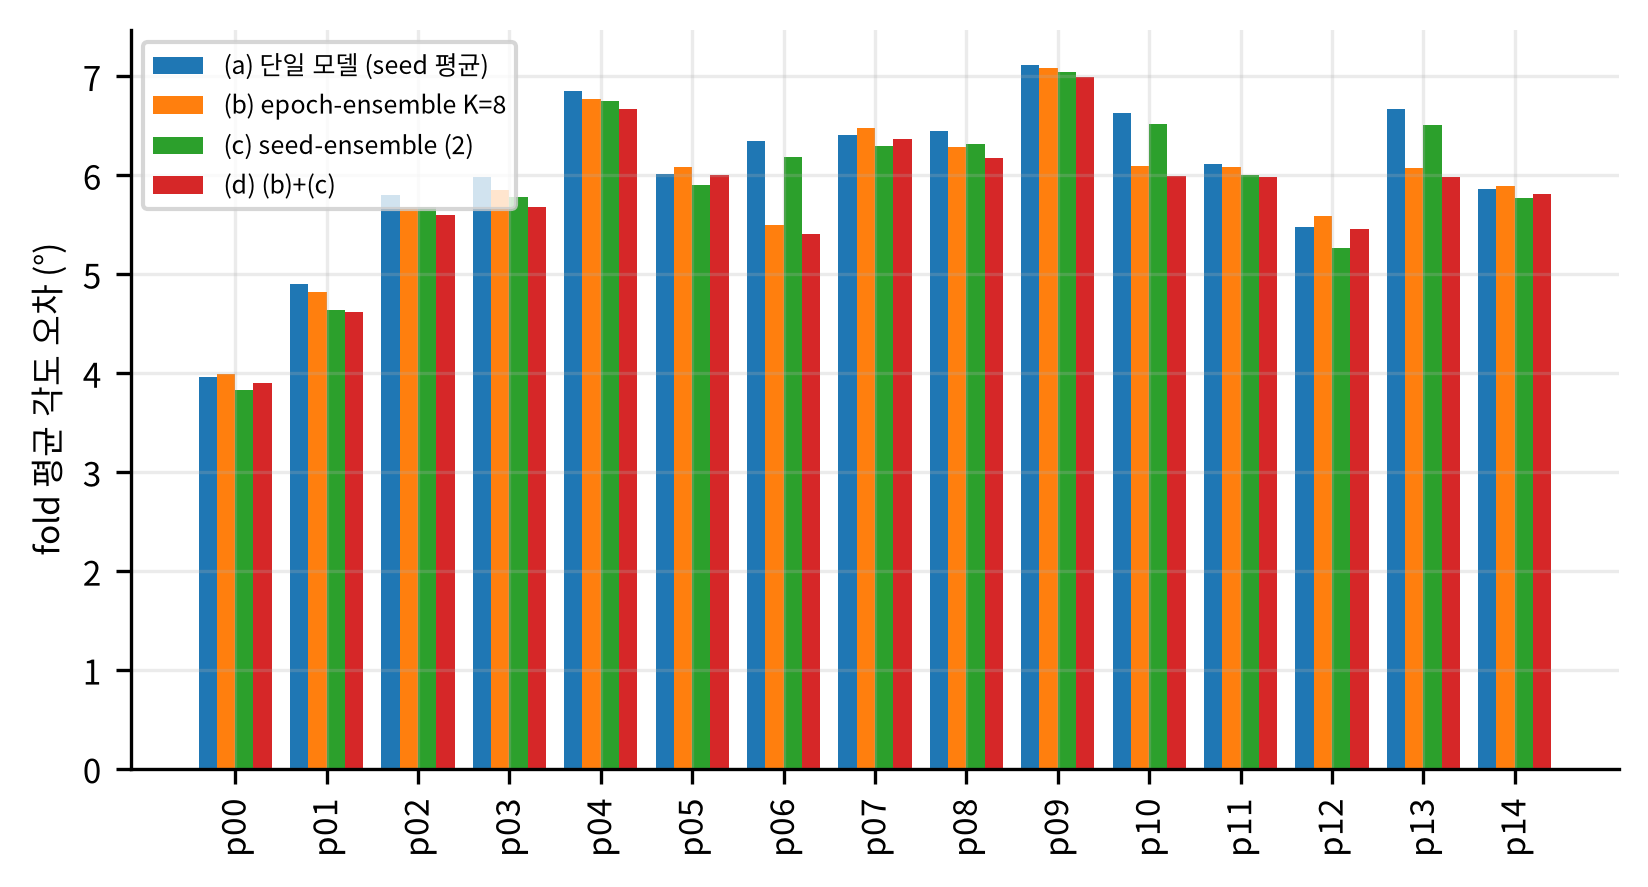
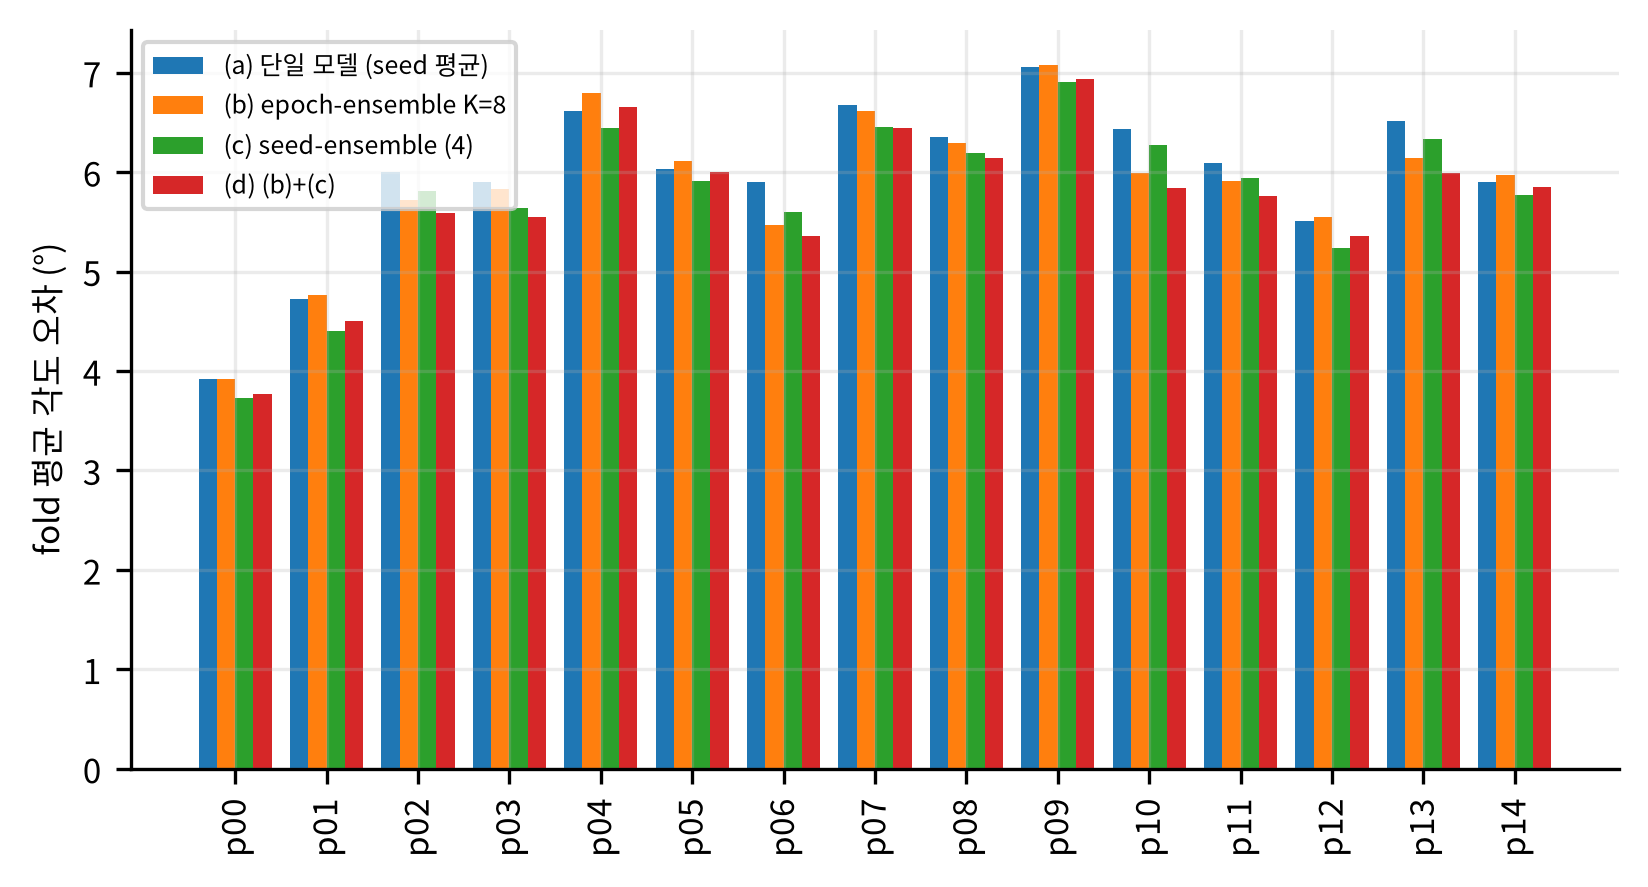
Aggregate four seeds; skip runs that are still going
집계 스크립트가 아직 돌고 있는 실행 디렉터리(lopo.json 없음·folds 미완)를 집어
ensemble 행이 빠지던 것을 고쳤다. 완주한 실행만 쓴다.

현재 결과 (전부 정당한 수단)

| 방법 | LOPO 평균 |
|---|---|
| 평균 gaze 예측 (하한선) | 9.214° |
| ridge 회귀 (저장소 baseline) | 7.271° |
| 이전 실행 A / B | 6.056° / 6.121° |
| 최종 모델 단일 (seed 4개 평균) | 5.975° |
| 최종 모델 seed-ensemble (4) | 5.776° |
| epoch-ens K=8 + seed-ens | 5.717° |

E2: (b) epoch-ens K=8 -0.096 ± 0.051 (p=0.079, 구분 불가)
    (c) seed-ens -0.199 ± 0.016 (p<0.0001, 유의)
    (d) 둘 다 -0.258 ± 0.050 (p=0.0002, 유의)
K는 개발용 fold p00의 검증 오차로만 골랐다(PREREG 6절).

최종 모델 vs ridge: Δ -1.296° ± 0.197, p=1.2e-05
최종 모델 vs 하한선: Δ -3.239° ± 0.236, p=1.6e-09

Claude-Session: https://claude.ai/code/session_01RZg9XsEgZRphrDav2mZiVs

diff --git a/analysis/e2_ensemble.py b/analysis/e2_ensemble.py
@@ -67,9 +67,12 @@ def fold_err(pred: dict, gaze: dict) -> np.ndarray:
     return np.array([angular_error(pred[p], gaze[p]).mean() for p in PERSONS])
 
 
-def run(pattern="results/p1_seed*"):
+def run(pattern=("results/p1_seed*", "results/p4_seed*")):
     section("E2 — ensemble")
-    run_dirs = sorted(d for d in glob.glob(pattern) if os.path.exists(f"{d}/lopo.json"))
+    pats = (pattern,) if isinstance(pattern, str) else pattern
+    run_dirs = sorted(d for pat in pats for d in glob.glob(pat)
+                      if os.path.exists(f"{d}/lopo.json")
+                      and len(glob.glob(f"{d}/folds/*.npz")) >= len(PERSONS))
     print(f"실행 {len(run_dirs)}개: {[os.path.basename(d) for d in run_dirs]}")
     if not run_dirs:
         print("  P1 결과가 아직 없다.")

diff --git a/analysis/final_table.py b/analysis/final_table.py
@@ -37,12 +37,12 @@ def run():
             rows.append([label] + [round(float(x), 3) for x in v]
                         + [round(float(v.mean()), 3)])
 
-    seeds = sorted(glob.glob("results/p1_seed*"))
-    seed_errs = []
-    for sd in seeds:
+    # 아직 돌고 있는 실행은 lopo.json이 없다. 완주한 것만 쓴다.
+    seeds, seed_errs = [], []
+    for sd in sorted(glob.glob("results/p1_seed*")) + sorted(glob.glob("results/p4_seed*")):
         v = json_folds(os.path.join(sd, "lopo.json"))
         if v is not None:
-            seed_errs.append(v)
+            seeds.append(sd); seed_errs.append(v)
     if seed_errs:
         A = np.array(seed_errs)
         mean_single = A.mean(0)

diff --git a/analysis/a18_ablation_null.py b/analysis/a18_ablation_null.py
@@ -33,6 +33,8 @@ BASE_GLOB = ["results/p1_seed*", "results/p4_seed*"]
 def fold_err(run_dir):
     if not os.path.exists(os.path.join(run_dir, "lopo.json")):
         return None
+    if len(glob.glob(os.path.join(run_dir, "folds", "*.npz"))) < len(PERSONS):
+        return None   # 아직 돌고 있는 실행
     load_run(run_dir)
     f = load_folds(run_dir, keys=["pred", "gaze"])
     if len(f) < len(PERSONS):

diff --git a/report_assets/tables/e2_ensemble.md b/report_assets/tables/e2_ensemble.md
@@ -1,6 +1,6 @@
 | method | p00 | p01 | p02 | p03 | p04 | p05 | p06 | p07 | p08 | p09 | p10 | p11 | p12 | p13 | p14 | mean_deg | delta_vs_single | se | t | p |
 |---|---|---|---|---|---|---|---|---|---|---|---|---|---|---|---|---|---|---|---|---|
-| (a) 단일 모델 (seed 평균) | 3.959 | 4.897 | 5.798 | 5.979 | 6.851 | 6.01 | 6.348 | 6.406 | 6.443 | 7.117 | 6.629 | 6.115 | 5.474 | 6.67 | 5.857 | 6.0369 | 0.0 | 0.0 | nan | nan |
-| (b) epoch-ensemble K=8 | 3.994 | 4.817 | 5.682 | 5.849 | 6.77 | 6.079 | 5.493 | 6.474 | 6.288 | 7.085 | 6.097 | 6.084 | 5.584 | 6.074 | 5.896 | 5.8845 | -0.1524 | 0.0728 | -2.092 | 0.05516 |
-| (c) seed-ensemble (2) | 3.83 | 4.635 | 5.679 | 5.776 | 6.749 | 5.903 | 6.189 | 6.292 | 6.312 | 7.043 | 6.522 | 6.004 | 5.267 | 6.512 | 5.775 | 5.8993 | -0.1375 | 0.0134 | -10.3 | 0.0 |
-| (d) (b)+(c) | 3.895 | 4.622 | 5.595 | 5.674 | 6.668 | 6.005 | 5.41 | 6.363 | 6.171 | 6.991 | 5.995 | 5.984 | 5.461 | 5.982 | 5.814 | 5.7754 | -0.2615 | 0.0719 | -3.637 | 0.00269 |
+| (a) 단일 모델 (seed 평균) | 3.923 | 4.725 | 6.003 | 5.9 | 6.613 | 6.03 | 5.901 | 6.67 | 6.353 | 7.054 | 6.429 | 6.096 | 5.511 | 6.513 | 5.901 | 5.9749 | 0.0 | 0.0 | nan | nan |
+| (b) epoch-ensemble K=8 | 3.915 | 4.766 | 5.722 | 5.828 | 6.796 | 6.114 | 5.472 | 6.613 | 6.298 | 7.079 | 5.996 | 5.914 | 5.548 | 6.142 | 5.976 | 5.8785 | -0.0964 | 0.0509 | -1.893 | 0.07916 |
+| (c) seed-ensemble (4) | 3.733 | 4.4 | 5.814 | 5.634 | 6.44 | 5.91 | 5.603 | 6.453 | 6.191 | 6.907 | 6.275 | 5.941 | 5.236 | 6.333 | 5.772 | 5.7762 | -0.1987 | 0.0164 | -12.106 | 0.0 |
+| (d) (b)+(c) | 3.765 | 4.506 | 5.59 | 5.55 | 6.653 | 6.005 | 5.353 | 6.448 | 6.138 | 6.938 | 5.845 | 5.763 | 5.353 | 5.995 | 5.855 | 5.7172 | -0.2577 | 0.0502 | -5.134 | 0.00015 |

diff --git a/report_assets/tables/final_results.md b/report_assets/tables/final_results.md
@@ -4,4 +4,5 @@
 | ridge 회귀 (저장소 baseline) | 5.31 | 7.76 | 6.55 | 8.05 | 6.4 | 7.35 | 7.59 | 7.97 | 7.89 | 8.51 | 6.93 | 6.63 | 7.07 | 7.85 | 7.2 | 7.271 |
 | 이전 실행 A (b128, do0.2, 15ep) | 4.173 | 4.984 | 5.484 | 5.726 | 7.264 | 5.868 | 5.718 | 6.927 | 6.219 | 7.128 | 6.856 | 5.898 | 5.793 | 6.861 | 5.949 | 6.056 |
 | 이전 실행 B (b128, do0.5, 20ep) | 4.171 | 4.868 | 5.82 | 5.976 | 7.017 | 5.96 | 5.76 | 6.626 | 6.518 | 7.15 | 7.275 | 6.383 | 5.569 | 6.672 | 6.053 | 6.121 |
-| 최종 모델 단일 (seed 1개 평균) | 4.171 | 4.868 | 5.82 | 5.976 | 7.017 | 5.96 | 5.76 | 6.626 | 6.518 | 7.15 | 7.275 | 6.383 | 5.569 | 6.672 | 6.053 | 6.121 |
+| 최종 모델 단일 (seed 4개 평균) | 3.923 | 4.725 | 6.003 | 5.9 | 6.613 | 6.03 | 5.901 | 6.67 | 6.353 | 7.054 | 6.429 | 6.096 | 5.511 | 6.513 | 5.901 | 5.975 |
+| 최종 모델 seed-ensemble (4) | 3.733 | 4.4 | 5.814 | 5.634 | 6.44 | 5.91 | 5.603 | 6.453 | 6.191 | 6.907 | 6.275 | 5.941 | 5.236 | 6.333 | 5.772 | 5.776 |
